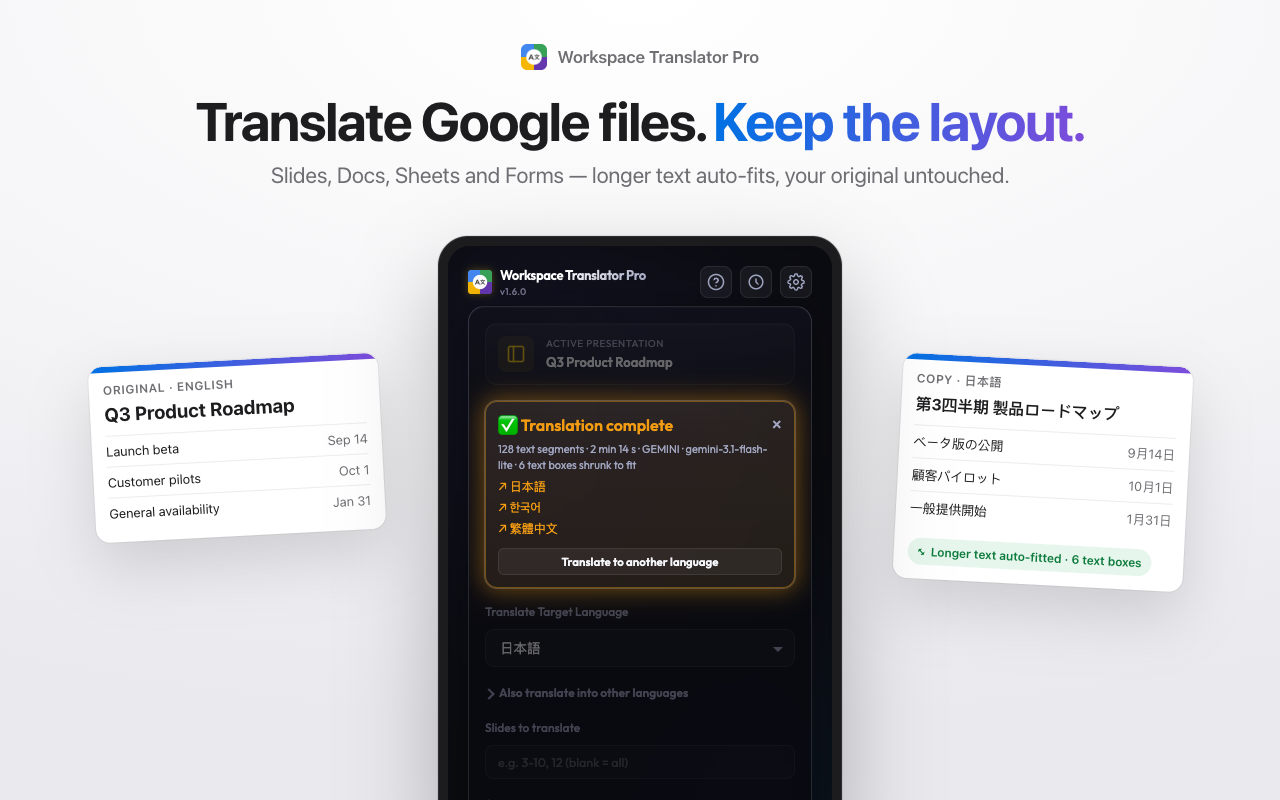
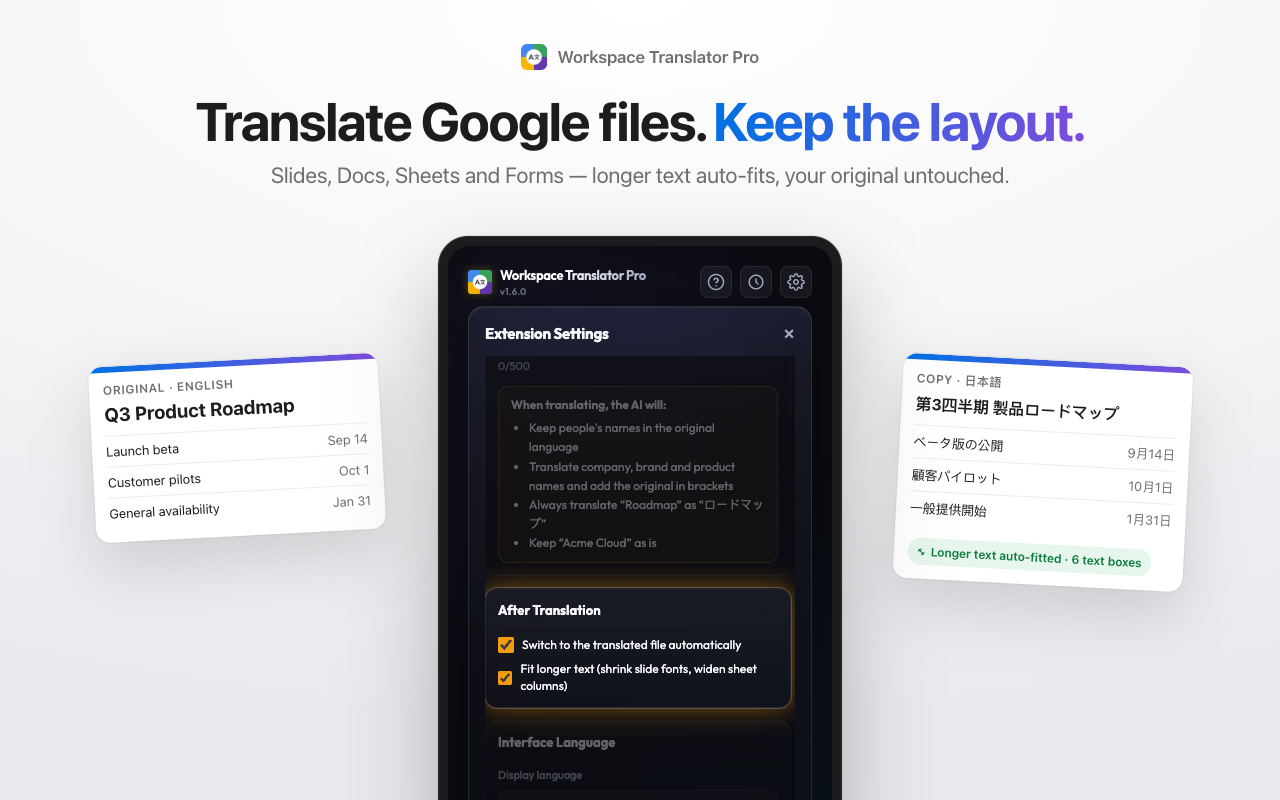
store: screenshot 1 spotlights the After Translation / fit longer text setting

Changed region(s): [[0.375, 0.375, 0.625, 0.9375], [0.4062, 0.9688, 0.4375, 1.0]]

diff --git a/store-assets/compose.html b/store-assets/compose.html
@@ -105,7 +105,7 @@ const shots = {
       <div class="doc right"><div class="bar"></div><div class="doc-lang">Copy · 日本語</div><div class="doc-title">第3四半期 製品ロードマップ</div>
         <div class="doc-body"><div class="row"><span>ベータ版の公開</span><span>9月14日</span></div><div class="row"><span>顧客パイロット</span><span>10月1日</span></div><div class="row"><span>一般提供開始</span><span>1月31日</span></div></div>
         <div class="fit-tag">Longer text auto-fitted · 6 text boxes</div></div>
-      ${device('done', '', 'done')}</div>`,
+      ${device('prefs&scroll=result', '', 'result')}</div>`,
   2: `<div class="shot">${head('Set up in a minute. <span class="grad">Free.</span>',
         'Get a free Gemini key — no credit card. Pasted, checked and saved automatically.')}
       ${pts('left', [['Free Gemini key', 'Natural, fluent AI translation at no cost to start.'], ['Or bring your own', 'OpenAI, Claude or any OpenAI-compatible endpoint.']])}
